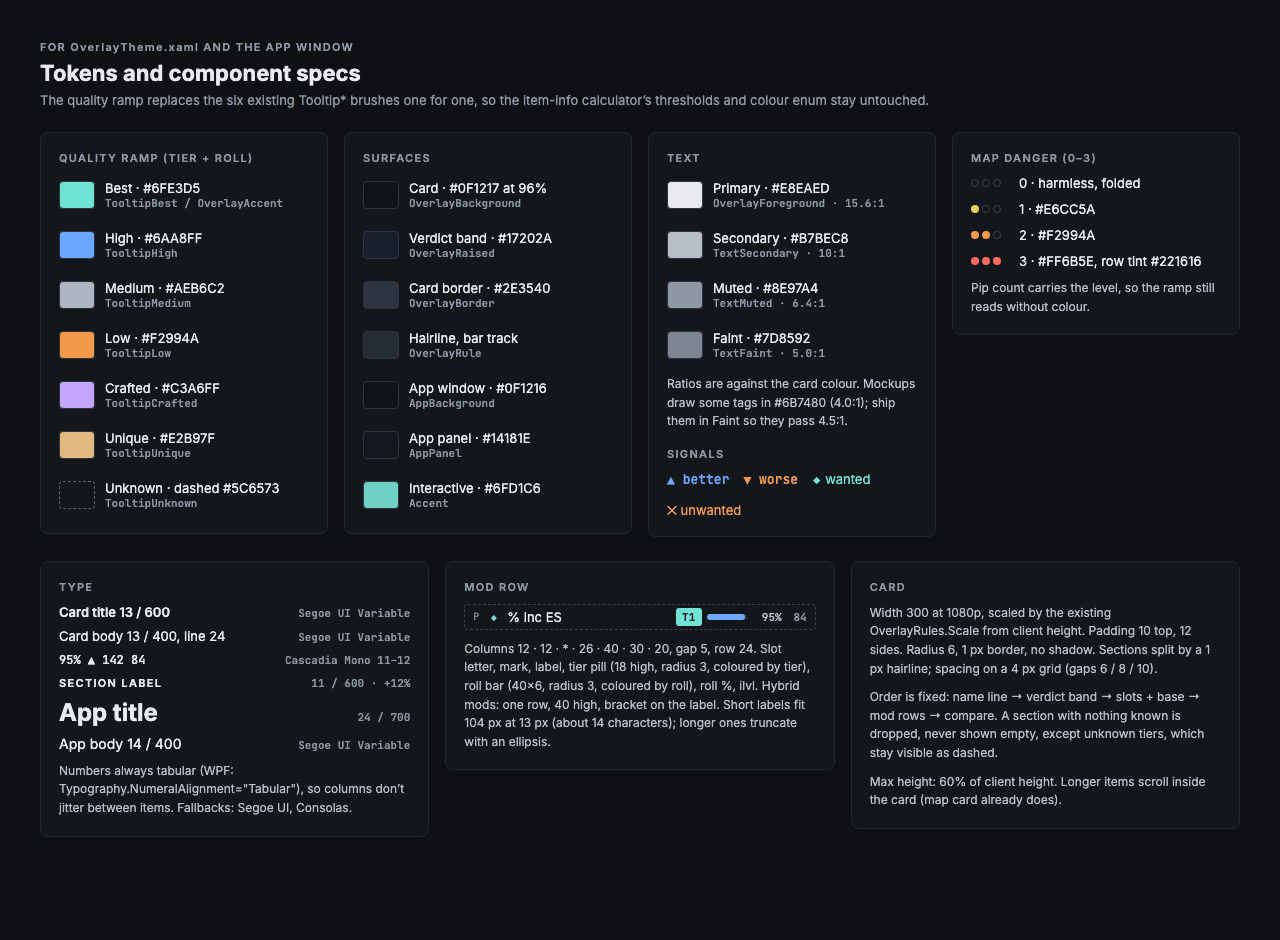
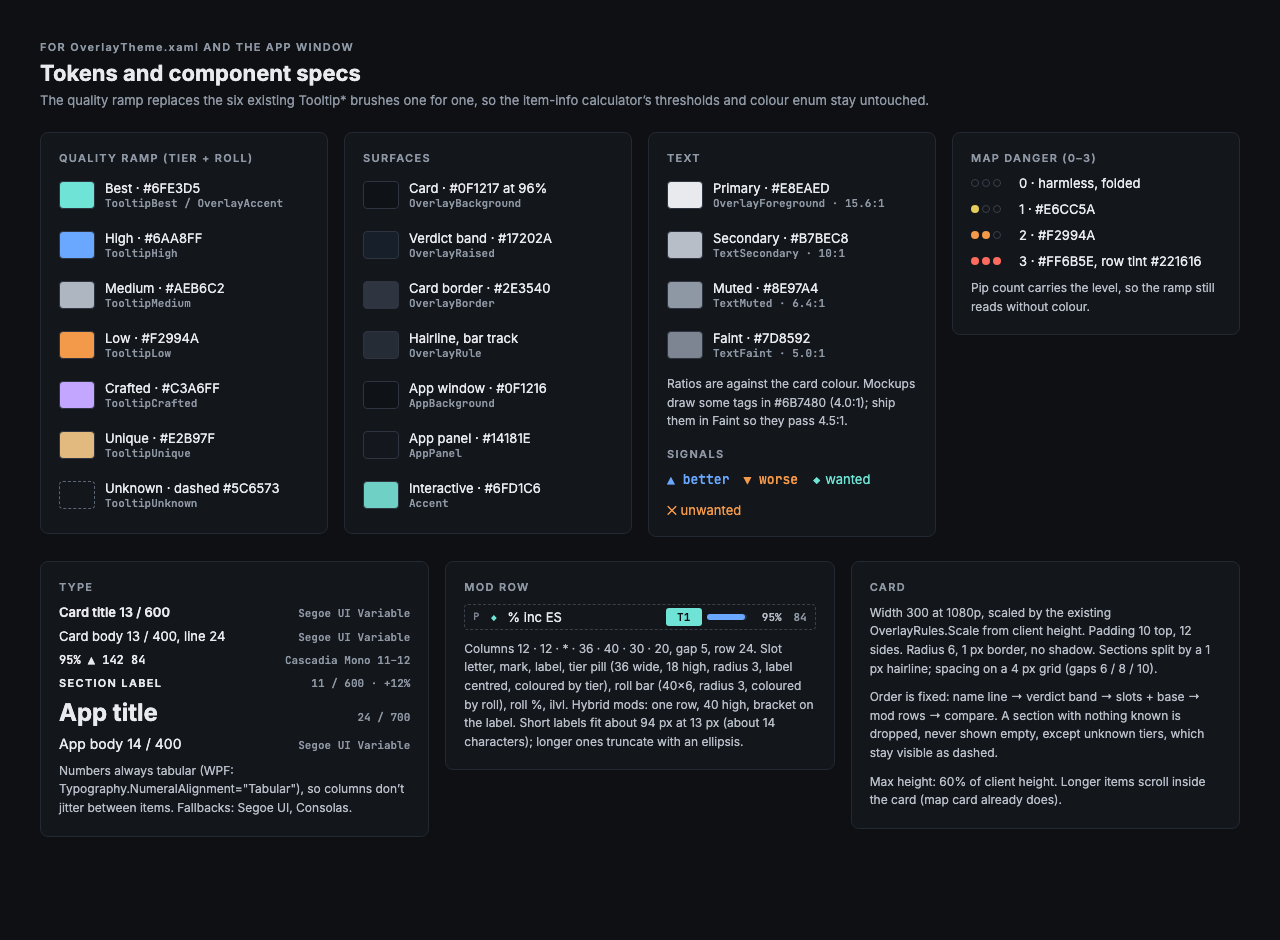
Match mockups and decisions to the 36 px tier pill column

Changed region(s): [[0.3438, 0.6479, 0.625, 0.8021]]

diff --git a/docs/design/mockups/tokens.html b/docs/design/mockups/tokens.html
@@ -16,7 +16,7 @@ body{margin:0}
 .k{font:500 11px 'JetBrains Mono',Consolas,monospace;color:#8E97A4}
 .n{font-size:13px;color:#E8EAED}
 .box{background:#13161B;border:1px solid #232933;border-radius:8px;padding:18px;display:flex;flex-direction:column;gap:10px;min-width:0}
-.pill{display:inline-flex;align-items:center;justify-content:center;height:18px;min-width:24px;padding:0 4px;box-sizing:border-box;border-radius:3px;font:600 11px 'JetBrains Mono',Consolas,monospace;color:#0C0F14}
+.pill{display:inline-flex;align-items:center;justify-content:center;height:18px;width:36px;padding:0 4px;box-sizing:border-box;border-radius:3px;font:600 11px 'JetBrains Mono',Consolas,monospace;color:#0C0F14}
 .spec{font-size:12px;line-height:1.55;color:#B7BEC8}
 </style>
 <style>body{background:#0E1013}</style>
@@ -91,10 +91,10 @@ body{margin:0}
 
     <div class="box">
       <div class="cap">MOD ROW</div>
-      <div style="display: grid; grid-template-columns: 12px 12px minmax(0,1fr) 26px 40px 30px 20px; column-gap: 5px; align-items: center; height: 24px; padding: 0 8px; border: 1px dashed #3A414C; border-radius: 4px; font-size: 13px;">
+      <div style="display: grid; grid-template-columns: 12px 12px minmax(0,1fr) 36px 40px 30px 20px; column-gap: 5px; align-items: center; height: 24px; padding: 0 8px; border: 1px dashed #3A414C; border-radius: 4px; font-size: 13px;">
         <span class="mono" style="font-size: 10px; color: #7D8592;">P</span><span style="color: #6FE3D5; font-size: 10px;">◆</span><span>% inc ES</span><span class="pill" style="background: #6FE3D5;">T1</span><div style="width: 40px; height: 6px; border-radius: 3px; background: #2A313C;"><div style="width: 95%; height: 6px; border-radius: 3px; background: #6AA8FF;"></div></div><span class="mono" style="font-size: 11px; text-align: right; color: #B7BEC8;">95%</span><span class="mono" style="font-size: 11px; text-align: right; color: #8E97A4;">84</span>
       </div>
-      <div class="spec">Columns 12 · 12 · * · 26 · 40 · 30 · 20, gap 5, row 24. Slot letter, mark, label, tier pill (18 high, radius 3, coloured by tier), roll bar (40×6, radius 3, coloured by roll), roll %, ilvl. Hybrid mods: one row, 40 high, bracket on the label. Short labels fit 104 px at 13 px (about 14 characters); longer ones truncate with an ellipsis.</div>
+      <div class="spec">Columns 12 · 12 · * · 36 · 40 · 30 · 20, gap 5, row 24. Slot letter, mark, label, tier pill (36 wide, 18 high, radius 3, label centred, coloured by tier), roll bar (40×6, radius 3, coloured by roll), roll %, ilvl. Hybrid mods: one row, 40 high, bracket on the label. Short labels fit about 94 px at 13 px (about 14 characters); longer ones truncate with an ellipsis.</div>
     </div>
 
     <div class="box">

diff --git a/docs/design/mockups/item-card-states.html b/docs/design/mockups/item-card-states.html
@@ -11,13 +11,13 @@
 body{margin:0}
 .mono{font-family:'JetBrains Mono',Consolas,monospace;font-feature-settings:'tnum'}
 .card{width:300px;box-sizing:border-box;padding:10px 12px 12px;display:flex;flex-direction:column;gap:8px;background:rgba(15,18,23,0.96);border:1px solid #2E3540;border-radius:6px;font-size:13px;color:#E8EAED}
-.pill{display:inline-flex;align-items:center;justify-content:center;height:18px;min-width:24px;padding:0 4px;box-sizing:border-box;border-radius:3px;font:600 11px 'JetBrains Mono',Consolas,monospace;color:#0C0F14}
+.pill{display:inline-flex;align-items:center;justify-content:center;height:18px;width:36px;padding:0 4px;box-sizing:border-box;border-radius:3px;font:600 11px 'JetBrains Mono',Consolas,monospace;color:#0C0F14}
 .best{background:#6FE3D5}.high{background:#6AA8FF}.med{background:#AEB6C2}.low{background:#F2994A}.craft{background:#C3A6FF}.uniq{background:#E2B97F}
 .unk{background:transparent;border:1px dashed #5C6573;color:#9AA3AF}
 .imp{background:transparent;border:1px solid #6B7480;color:#C9CED6}
 .track{width:40px;height:6px;background:#2A313C;border-radius:3px;overflow:hidden}
 .fill{height:6px;border-radius:3px}
-.row{display:grid;grid-template-columns:12px 12px minmax(0,1fr) 26px 40px 30px 20px;column-gap:5px;align-items:center;height:24px}
+.row{display:grid;grid-template-columns:12px 12px minmax(0,1fr) 36px 40px 30px 20px;column-gap:5px;align-items:center;height:24px}
 .lab{white-space:nowrap;overflow:hidden;text-overflow:ellipsis}
 .ps{font-size:10px;color:#6B7480}
 .r{font-size:11px;color:#B7BEC8;text-align:right}
@@ -95,7 +95,7 @@ body{margin:0}
         <div class="rule"></div>
         <div style="display: flex; flex-direction: column;">
           <div class="row"><span class="mono ps">P</span><span style="color: #6FE3D5; font-size: 10px;">◆</span><span class="lab">% phys dmg</span><span class="pill high">T2</span><div class="track"><div class="fill med" style="width: 70%;"></div></div><span class="mono r">70%</span><span class="mono i">73</span></div>
-          <div style="display: grid; grid-template-columns: 12px 12px minmax(0,1fr) 26px 40px 30px 20px; column-gap: 5px; align-items: center; height: 40px;">
+          <div style="display: grid; grid-template-columns: 12px 12px minmax(0,1fr) 36px 40px 30px 20px; column-gap: 5px; align-items: center; height: 40px;">
             <span class="mono ps">P</span><span></span>
             <div style="display: flex; align-items: center; gap: 6px; min-width: 0;">
               <div style="width: 3px; height: 30px; border: 1px solid #4A5260; border-right: 0; border-radius: 2px 0 0 2px; box-sizing: border-box;"></div>

diff --git a/docs/design/mockups/app-item-rules.html b/docs/design/mockups/app-item-rules.html
@@ -27,11 +27,11 @@ a{color:#6FD1C6}a:hover{color:#9BE7DE}
 .icon{width:32px;height:32px;border-radius:6px;border:0;background:transparent;color:#6B7480;cursor:pointer;display:flex;align-items:center;justify-content:center}
 .icon:hover{background:#1A1F27;color:#E8EAED}
 .card{width:300px;box-sizing:border-box;padding:10px 12px 12px;display:flex;flex-direction:column;gap:8px;background:#0F1217;border:1px solid #2E3540;border-radius:6px;font-size:13px;color:#E8EAED}
-.pill{display:inline-flex;align-items:center;justify-content:center;height:18px;min-width:24px;padding:0 4px;box-sizing:border-box;border-radius:3px;font:600 11px 'JetBrains Mono',Consolas,monospace;color:#0C0F14}
+.pill{display:inline-flex;align-items:center;justify-content:center;height:18px;width:36px;padding:0 4px;box-sizing:border-box;border-radius:3px;font:600 11px 'JetBrains Mono',Consolas,monospace;color:#0C0F14}
 .best{background:#6FE3D5}.high{background:#6AA8FF}.med{background:#AEB6C2}.low{background:#F2994A}
 .track{width:40px;height:6px;background:#2A313C;border-radius:3px;overflow:hidden}
 .fill{height:6px;border-radius:3px}
-.row{display:grid;grid-template-columns:12px 12px minmax(0,1fr) 26px 40px 30px 20px;column-gap:5px;align-items:center;height:24px}
+.row{display:grid;grid-template-columns:12px 12px minmax(0,1fr) 36px 40px 30px 20px;column-gap:5px;align-items:center;height:24px}
 .chk{display:flex;align-items:center;gap:10px;font-size:13px;color:#E8EAED}
 .chk input{width:16px;height:16px;accent-color:#6FD1C6;margin:0}
 </style>

diff --git a/docs/design/mockups/item-card.html b/docs/design/mockups/item-card.html
@@ -11,11 +11,11 @@
 body{margin:0}
 a{color:#6FD1C6}a:hover{color:#9BE7DE}
 .mono{font-family:'JetBrains Mono',Consolas,monospace;font-feature-settings:'tnum'}
-.pill{display:inline-flex;align-items:center;justify-content:center;height:18px;min-width:24px;padding:0 4px;box-sizing:border-box;border-radius:3px;font:600 11px 'JetBrains Mono',Consolas,monospace;color:#0C0F14}
+.pill{display:inline-flex;align-items:center;justify-content:center;height:18px;width:36px;padding:0 4px;box-sizing:border-box;border-radius:3px;font:600 11px 'JetBrains Mono',Consolas,monospace;color:#0C0F14}
 .best{background:#6FE3D5}.high{background:#6AA8FF}.med{background:#AEB6C2}.low{background:#F2994A}
 .track{width:40px;height:6px;background:#2A313C;border-radius:3px;overflow:hidden}
 .fill{height:6px;border-radius:3px}
-.row{display:grid;grid-template-columns:12px 12px minmax(0,1fr) 26px 40px 30px 20px;column-gap:5px;align-items:center;height:24px}
+.row{display:grid;grid-template-columns:12px 12px minmax(0,1fr) 36px 40px 30px 20px;column-gap:5px;align-items:center;height:24px}
 .anno{position:absolute;width:20px;height:20px;border-radius:10px;background:#F4F4F5;color:#111318;font:700 11px Inter,sans-serif;display:flex;align-items:center;justify-content:center;box-shadow:0 0 0 3px #0E1013}
 .cell{width:36px;height:36px;border:1px solid #23272E;box-sizing:border-box;border-radius:2px}
 </style>

diff --git a/docs/DECISIONS.md b/docs/DECISIONS.md
@@ -110,6 +110,7 @@
 | D-106 | 2026-11-08 | Item and map cards open beside the cursor on the side away from the game tooltip (right of the cursor when it is right of the client centre, else left), with an optional docked position in client-relative units. | Screen recognition is out of scope (D-006), so only the cursor and client rect are known. The rule is checked at the Phase 7 🎮 gate. |
 | D-107 | 2026-11-08 | WPF views are split into a window host and a pure builder. A Windows-only snapshot test project renders builders from fixture models to PNG; each view task owns its own snapshot test class. Renders come from the Windows host, or the `ui-snapshots` CI artifact from a manual dispatch (once P7-T2's `workflow_dispatch` trigger is on `main`) or a PR into `main` or `integration/**`. | WPF views cannot run on the macOS/Linux machines agents develop on, and CI's push and PR filters match no task or `t3/*` branch. |
 | D-108 | 2026-11-08 | The omni key sends advanced copy (`CopyItem(Advanced: true)`) by default, with a setting to switch back to plain copy. | Owner decision. Tiers, roll ranges and tier ilvl exist only in advanced-copy text, so plain copy left every omni item card without them. It remains one `CopyItem` action per press (FAIR-PLAY.md already allows the Alt variant). |
+| D-109 | 2026-11-08 | The item card's tier pill column is 36 wide (was 26); every pill shares that width with its label centred. | Owner decision. At the §8 label size (11 px semibold mono) `ench` needs about 34 px with padding, so it could not fit in 26. The mod label column gives up about 10 px. UI-SPEC §3 and the mod-row mockups were updated to match. |
 
 ### P1-T7 Windows owner check
 
